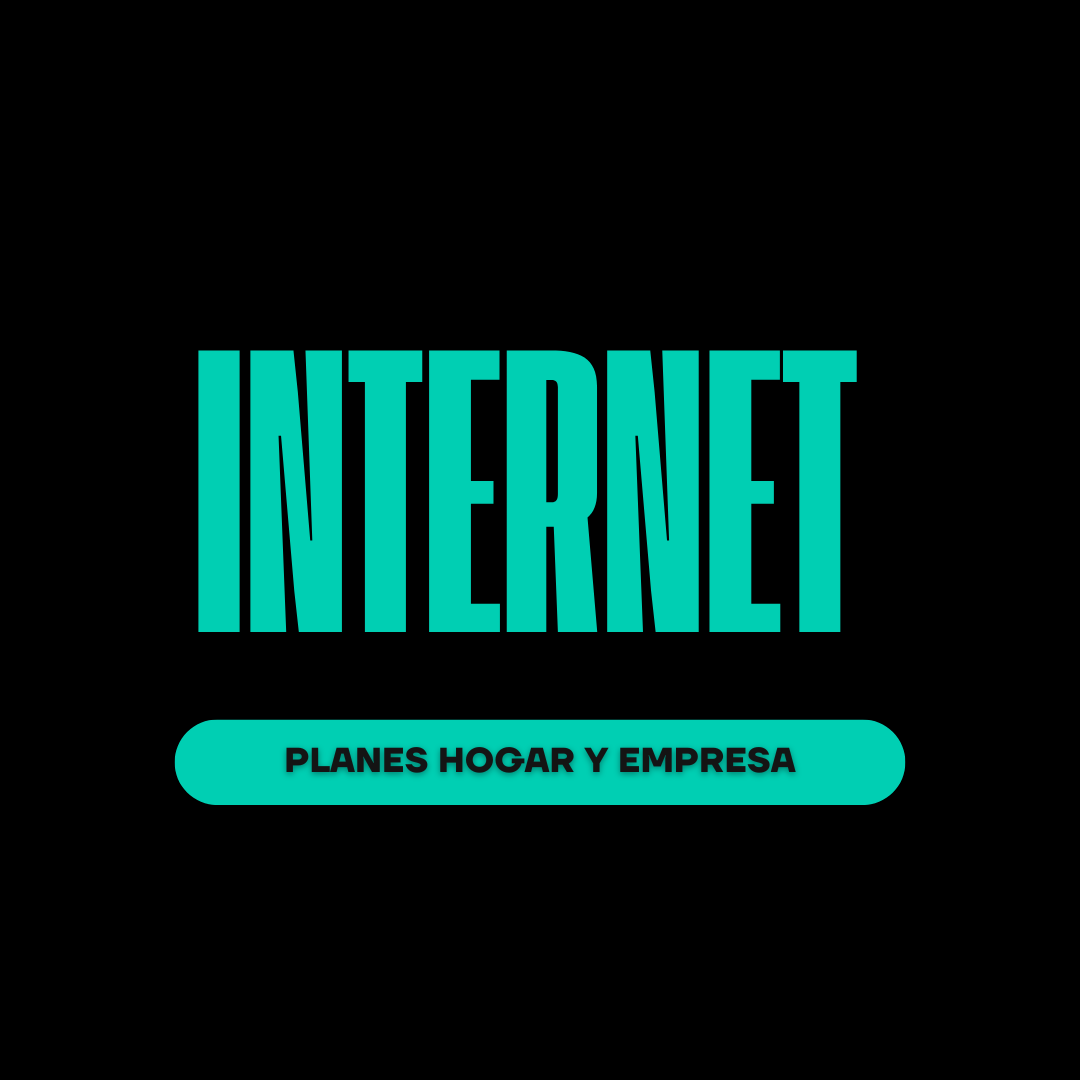
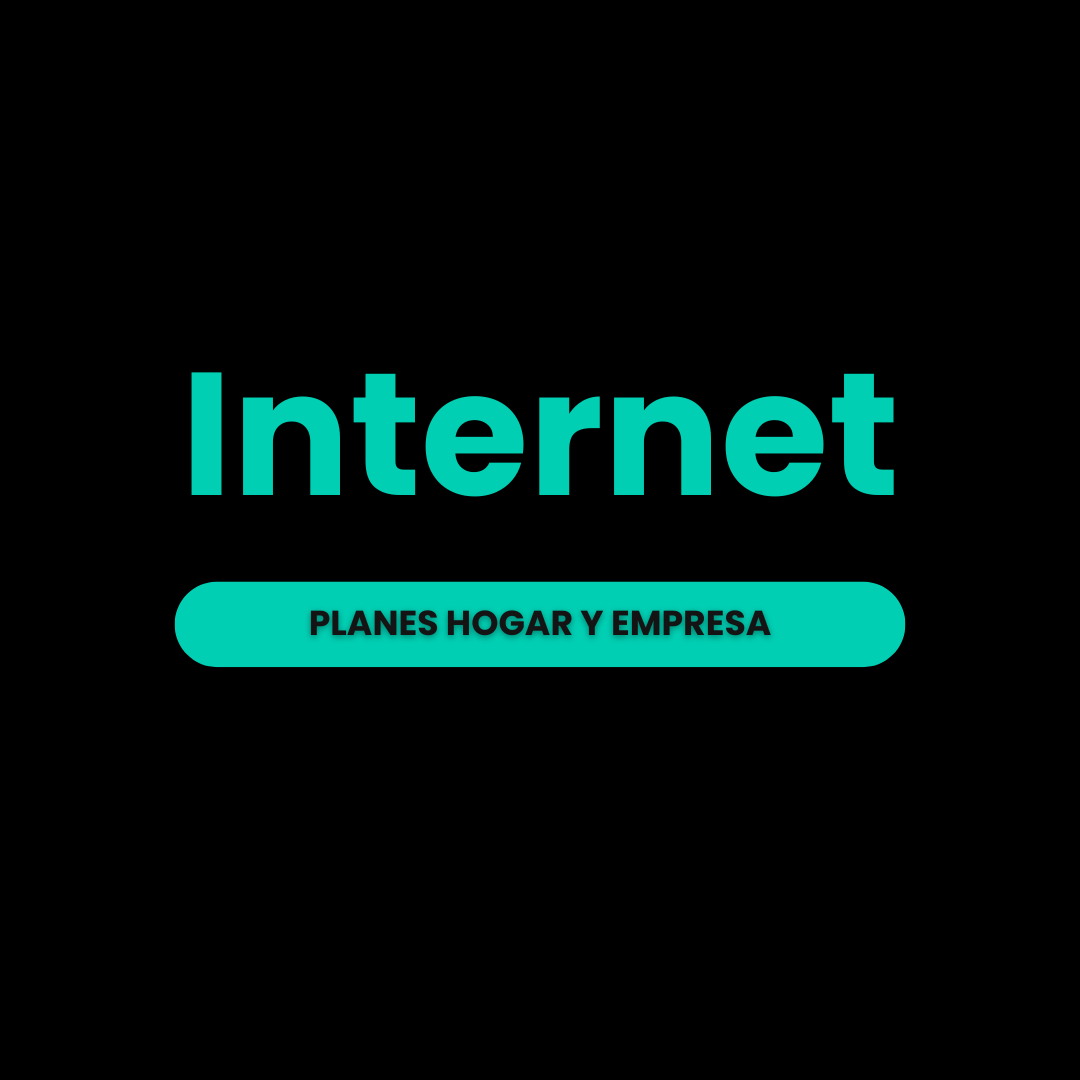
cambios css

Changed region(s): [[0.1528, 0.3056, 0.8556, 0.7639]]

diff --git a/index.html b/index.html
@@ -94,7 +94,7 @@
                 <div class="col-lg-5 col-md-6">
                   <div class="slider_detail-box">
                     <h1>
-                      Conexión<br />
+                      Conexión
                       Sin<br />
                       Límites.
 
@@ -104,7 +104,7 @@
                       límites al mundo digital.
                     </p>
                     <div class="btn-box">
-                      <a href="" class="btn-1">
+                      <a href="#welcome" class="btn-1">
                         Ver más
                       </a>
                     </div>
@@ -191,7 +191,7 @@
   </div>
 
   <!-- welcome section -->
-  <section class="welcome_section layout_padding">
+  <section id="welcome" class="welcome_section layout_padding">
     <div class="container">
       <div class="custom_heading-container">
         <h2>
@@ -229,7 +229,7 @@
     <div class="container">
       <div class="custom_heading-container">
         <h2>
-          Nuestros Servicios
+          Que ofrecemos?
         </h2>
       </div>
       <div class="service_container layout_padding2">
@@ -238,10 +238,9 @@
             <img src="images/s-1.png" alt="" />
           </div>
           <div class="detail-box">
-            <h4>
-              Internet <br />
-              por fibra óptica
-            </h4>
+            <p>
+              Soluciones de infraestructura robustas y confiables para potenciar tu negocio en la era digital
+            </p>
 
           </div>
         </div>
@@ -250,10 +249,9 @@
             <img src="images/s-2.png" alt="" />
           </div>
           <div class="detail-box">
-            <h4>
-              Soluciones de </br>
-              infraestructura empresarial
-            </h4>
+            <p>
+              Navega sin límites: Internet rápido, confiable y al alcance de tu mano.
+            </p>
 
           </div>
         </div>
@@ -262,10 +260,9 @@
             <img src="images/s-3.png" alt="" />
           </div>
           <div class="detail-box">
-            <h4>
-              Instalación </br>
-              de cámaras y alarmas
-            </h4>
+            <p>
+              Soluciones de infraestructura robustas y confiables para potenciar tu negocio en la era digital
+            </p>
 
           </div>
         </div>
@@ -280,7 +277,7 @@
 
   <!-- end service section -->
   <!--problem section -->
-  <section class="problem_section layout_padding">
+  <!-- <section class="problem_section layout_padding">
     <div class="container">
       <div class="custom_heading-container">
         <h2>
@@ -305,10 +302,9 @@
       </div>
 
     </div>
-  </section>
+  </section> -->
   <!-- end problem section -->
   <!-- why section -->
-
   <section class="why_section layout_padding">
     <div class="container">
       <div class="custom_heading-container">
@@ -378,8 +374,6 @@
     </div>
     </div>
   </section>
-
-
   <!-- end why section -->
 
   <!-- client section -->

diff --git a/css/style.css b/css/style.css
@@ -1,7 +1,7 @@
 body {
   font-family: "Poppins", sans-serif;
   color: #0c0c0c;
-  background-color: #ffffff;
+  background-color: #000000;
 }
 
 .layout_padding {
@@ -47,7 +47,7 @@ body {
 .hero_area {
   height: 94vh;
   background: -webkit-gradient(linear, left top, right top, from(#864ddf), to(#203376));
-  background: linear-gradient(to right, #00cfb3, #000000);
+  background: linear-gradient(to right, #000000, #000000);
 }
 
 .hero_area::before {
@@ -293,7 +293,9 @@ a:focus {
 }
 
 .welcome_section {
+  padding-bottom: 250px;
   text-align: center;
+  color: rgb(255, 255, 255);
 
 }
 
@@ -334,7 +336,7 @@ a:focus {
   text-align: center;
   color: #f9fcfb;
   /* background-image: url(../images/service-bg.png) */;
-  background: linear-gradient(to right, #00cfb3, #000000);
+  background: linear-gradient(to right, #000000, #000000);
   background-size: 100% 100%;
   padding-top: 50px;
   padding-bottom: 125px;
@@ -442,7 +444,7 @@ a:focus {
 .why_section {
   color: #f9fcfb;
   background: -webkit-gradient(linear, left top, right top, from(#1b3374), to(#8f4fe8));
-  background: linear-gradient(to right, #00cfb3, #000000);
+  background: linear-gradient(to right, #000000, #000000);
 }
 
 .why_section .custom_heading-container h2 {
@@ -556,6 +558,7 @@ a:focus {
 .contact_section .contact_heading {
   text-align: center;
   margin-bottom: 45px;
+  color: white;
 }
 
 .contact_section .contact_heading h2 {

diff --git a/css/bootstrap.css b/css/bootstrap.css
@@ -546,6 +546,7 @@ pre code {
 }
 
 .container {
+  color: var(--white);
   width: 100%;
   padding-right: 15px;
   padding-left: 15px;
